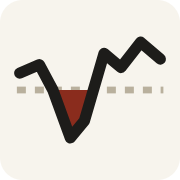
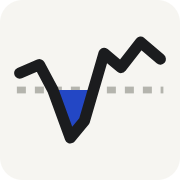
Switch to cobalt accent and sans body type; add talk link and A-Level result
- Replace the oxblood/terracotta accent and cream background with cobalt
  (#2347c5 light, #86a8ff dark) on cool neutrals; links are ink with a
  cobalt underline. All text pairs meet WCAG AA, most AAA.
- Newsreader now carries only the editorial layer (name, headings,
  titles, opening line, research questions); IBM Plex Sans sets body
  copy, metadata, and interface text.
- Regenerate og.png and PNG favicons in the new palette.
- Link the SUMR symposium presentation; add "Top in Nepal in Economics,
  GCE A Levels" under Before Georgia State.

Changed region(s): [[0.3056, 0.5, 0.5, 0.7222]]

diff --git a/src/index.css b/src/index.css
@@ -1,27 +1,29 @@
 /* ------------------------------------------------------------------
    Design system
-   Two faces: Newsreader (text and display, with optical sizes) and
-   IBM Plex Sans (labels, dates, navigation — anything tabular).
-   One accent, oxblood, for links and for the months the yield curve
-   was inverted. Spacing on a 4px base. The page is a margin column and
+   Two faces with separate jobs. Newsreader, a serif with optical sizes,
+   is the editorial voice: the name, headings, titles, the opening line,
+   the research questions. IBM Plex Sans carries everything you read or
+   scan: body copy, metadata, dates, navigation.
+   One accent, cobalt, for links, active states, and the months the
+   yield curve was inverted. Neutrals are cool-leaning, not cream. Spacing on a 4px base. The page is a margin column and
    a text column, plus a note column on wide screens, like a book with
    side notes.
 ------------------------------------------------------------------- */
 
 :root {
-  --paper: #f7f4ed;
-  --paper-sunk: #efeadf;
-  --ink: #1d1c1a;
-  --ink-2: #47443d;
-  --ink-3: #6b665c;
-  --rule: #d9d2c3;
-  --rule-strong: #b9b09d;
-  --accent: #8a2c1d;
-  --accent-hover: #5e1c12;
-  --accent-wash: rgba(138, 44, 29, 0.1);
-  --figure-line: #1d1c1a;
-  --figure-shade: #e6dfcf;
-  --scrim: rgba(29, 28, 26, 0.28);
+  --paper: #f6f5f1;
+  --paper-sunk: #edece7;
+  --ink: #1b1c1e;
+  --ink-2: #46484c;
+  --ink-3: #66686d;
+  --rule: #dcdbd5;
+  --rule-strong: #b4b4ad;
+  --accent: #2347c5;
+  --accent-hover: #17318f;
+  --accent-wash: rgba(35, 71, 197, 0.08);
+  --figure-line: #1b1c1e;
+  --figure-shade: #e6e5df;
+  --scrim: rgba(27, 28, 30, 0.3);
 
   --serif: 'Newsreader', 'Iowan Old Style', 'Palatino Linotype', Palatino, Georgia, serif;
   --sans: 'IBM Plex Sans', 'Segoe UI', system-ui, -apple-system, sans-serif;
@@ -49,37 +51,37 @@
 }
 
 :root[data-theme='dark'] {
-  --paper: #161513;
-  --paper-sunk: #1f1d1a;
-  --ink: #ebe5d8;
-  --ink-2: #c3bcad;
-  --ink-3: #9a9384;
-  --rule: #34312b;
-  --rule-strong: #57513f;
-  --accent: #e39a7e;
-  --accent-hover: #f3bda7;
-  --accent-wash: rgba(227, 154, 126, 0.14);
-  --figure-line: #ebe5d8;
-  --figure-shade: #2a2722;
-  --scrim: rgba(0, 0, 0, 0.5);
+  --paper: #121314;
+  --paper-sunk: #1a1b1d;
+  --ink: #e8e8e4;
+  --ink-2: #b9bab5;
+  --ink-3: #8f918c;
+  --rule: #2c2e31;
+  --rule-strong: #4a4d52;
+  --accent: #86a8ff;
+  --accent-hover: #b3c8ff;
+  --accent-wash: rgba(134, 168, 255, 0.12);
+  --figure-line: #e8e8e4;
+  --figure-shade: #232529;
+  --scrim: rgba(0, 0, 0, 0.55);
   color-scheme: dark;
 }
 
 @media (prefers-color-scheme: dark) {
   :root:not([data-theme='light']) {
-    --paper: #161513;
-    --paper-sunk: #1f1d1a;
-    --ink: #ebe5d8;
-    --ink-2: #c3bcad;
-    --ink-3: #9a9384;
-    --rule: #34312b;
-    --rule-strong: #57513f;
-    --accent: #e39a7e;
-    --accent-hover: #f3bda7;
-    --accent-wash: rgba(227, 154, 126, 0.14);
-    --figure-line: #ebe5d8;
-    --figure-shade: #2a2722;
-    --scrim: rgba(0, 0, 0, 0.5);
+    --paper: #121314;
+    --paper-sunk: #1a1b1d;
+    --ink: #e8e8e4;
+    --ink-2: #b9bab5;
+    --ink-3: #8f918c;
+    --rule: #2c2e31;
+    --rule-strong: #4a4d52;
+    --accent: #86a8ff;
+    --accent-hover: #b3c8ff;
+    --accent-wash: rgba(134, 168, 255, 0.12);
+    --figure-line: #e8e8e4;
+    --figure-shade: #232529;
+    --scrim: rgba(0, 0, 0, 0.55);
     color-scheme: dark;
   }
 }
@@ -108,9 +110,9 @@ body {
   margin: 0;
   background: var(--paper);
   color: var(--ink);
-  font-family: var(--serif);
-  font-size: 1.125rem;
-  line-height: 1.6;
+  font-family: var(--sans);
+  font-size: 1.0625rem;
+  line-height: 1.62;
   font-optical-sizing: auto;
   font-kerning: normal;
   -webkit-font-smoothing: antialiased;
@@ -148,6 +150,7 @@ h1,
 h2,
 h3,
 h4 {
+  font-family: var(--serif);
   font-weight: 500;
   line-height: 1.2;
   text-wrap: balance;
@@ -182,17 +185,19 @@ abbr[title] {
 
 /* ---------- links ---------- */
 
+/* Links are ink with a cobalt underline; the text turns cobalt on hover.
+   Saturated blue text everywhere would read as the browser default. */
 a {
-  color: var(--accent);
+  color: var(--ink);
   text-decoration-line: underline;
   text-decoration-thickness: 1px;
-  text-decoration-color: color-mix(in srgb, var(--accent) 38%, transparent);
+  text-decoration-color: color-mix(in srgb, var(--accent) 55%, transparent);
   text-underline-offset: 0.2em;
   transition: color var(--fast), text-decoration-color var(--fast), text-underline-offset var(--fast);
 }
 
 a:hover {
-  color: var(--accent-hover);
+  color: var(--accent);
   text-decoration-color: currentColor;
   text-underline-offset: 0.14em;
 }
@@ -599,6 +604,7 @@ kbd {
 
 .h-inv {
   fill: var(--accent);
+  fill-opacity: 0.88;
 }
 
 .h-line {
@@ -1644,8 +1650,8 @@ kbd {
 
 .palette-input {
   font: inherit;
-  font-family: var(--serif);
-  font-size: 1.1875rem;
+  font-family: var(--sans);
+  font-size: 1.0625rem;
   color: var(--ink);
   background: transparent;
   border: 0;
@@ -1656,7 +1662,6 @@ kbd {
 
 .palette-input::placeholder {
   color: var(--ink-3);
-  font-style: italic;
 }
 
 .palette-list {
@@ -1832,6 +1837,7 @@ kbd {
 }
 
 .tools-cv {
+  color: var(--accent);
   font-family: var(--sans);
   font-size: 0.875rem;
   font-weight: 500;
@@ -2021,6 +2027,105 @@ a.quiet:hover {
 
 .section-body.wide > .big-email {
   max-width: none;
+}
+
+/* ---------- type roles ----------
+   Serif: the editorial layer (name, headings, titles, the opening line,
+   research questions, captions, the email). Sans: everything else.
+   Plex has a larger x-height than Newsreader, so sans sizes sit a step
+   below where the serif was. */
+
+.intro .lede:first-child,
+.questions li,
+.study .question,
+.big-email,
+.portrait figcaption,
+.ledger h4,
+.project h4,
+.degree h3,
+.org-title,
+.essay h2 {
+  font-family: var(--serif);
+}
+
+.intro .lede + .lede {
+  font-size: 1.0625rem;
+  line-height: 1.7;
+}
+
+.study .question {
+  font-size: 1.1875rem;
+  line-height: 1.5;
+  color: var(--ink-2);
+}
+
+.study.is-lead .question {
+  font-size: 1.3125rem;
+  line-height: 1.45;
+  color: var(--ink);
+}
+
+.section-intro,
+.contact-lede,
+.essay p:not(.meta),
+.page-head h1 + p,
+.nf-body {
+  font-size: 1rem;
+  line-height: 1.65;
+}
+
+.facts,
+.ledger .body,
+.ledger.compact p,
+.project p,
+.course-table li,
+.honors li,
+.honors-line,
+.skills,
+.plain-list li,
+.study.is-minor p:not(.meta) {
+  font-size: 0.9375rem;
+  line-height: 1.6;
+}
+
+.facts dd {
+  color: var(--ink);
+}
+
+.note {
+  font-size: 0.875rem;
+}
+
+.contact-list {
+  font-size: 1rem;
+}
+
+.figure figcaption {
+  font-size: 0.8125rem;
+}
+
+/* Titles in the serif get slightly tighter tracking as they grow. */
+.study h3,
+.degree h3,
+.org-title,
+.desk-head h2,
+.section-head h2 {
+  letter-spacing: -0.012em;
+}
+
+/* Accent as a rule, not a fill: the active nav item and the lead entries. */
+.study.is-lead {
+  border-top-color: var(--rule);
+}
+
+.study.is-lead .study-meta .tnum::before {
+  content: '';
+  display: inline-block;
+  width: 1.25rem;
+  height: 2px;
+  margin-right: 0.45rem;
+  vertical-align: 0.28em;
+  background: var(--accent);
 }
 
 /* ---------- print: the home page doubles as a one-page summary ---------- */

diff --git a/index.html b/index.html
@@ -14,8 +14,8 @@
     <link rel="icon" href="/favicon.svg" type="image/svg+xml" />
     <link rel="icon" href="/favicon-32.png" sizes="32x32" type="image/png" />
     <link rel="apple-touch-icon" href="/apple-touch-icon.png" />
-    <meta name="theme-color" content="#f7f4ed" media="(prefers-color-scheme: light)" />
-    <meta name="theme-color" content="#161513" media="(prefers-color-scheme: dark)" />
+    <meta name="theme-color" content="#f6f5f1" media="(prefers-color-scheme: light)" />
+    <meta name="theme-color" content="#121314" media="(prefers-color-scheme: dark)" />
 
     <meta property="og:type" content="website" />
     <meta property="og:site_name" content="Animesh Shrestha" />
@@ -56,7 +56,7 @@
     <link rel="preconnect" href="https://fonts.gstatic.com" crossorigin />
     <link
       rel="stylesheet"
-      href="https://fonts.googleapis.com/css2?family=Newsreader:ital,opsz,wght@0,6..72,300..600;1,6..72,300..500&family=IBM+Plex+Sans:wght@400;500;600&display=swap"
+      href="https://fonts.googleapis.com/css2?family=Newsreader:ital,opsz,wght@0,6..72,300..600;1,6..72,300..500&family=IBM+Plex+Sans:ital,wght@0,400;0,500;0,600;1,400&display=swap"
     />
   </head>
   <body>

diff --git a/src/content.js b/src/content.js
@@ -219,7 +219,7 @@ export const education = {
   ],
   earlier: {
     name: 'A Levels, Little Angels’ College, Nepal',
-    detail: 'Gold medal, Business Case Analysis round, Third Nepal Economic Olympiad (2022).',
+    detail: 'Top in Nepal in Economics, GCE A Levels. Gold medal, Business Case Analysis round, Third Nepal Economic Olympiad (2022).',
   },
 };
 
@@ -318,6 +318,7 @@ export const presentations = [
     title: 'Summer research presentation',
     venue: 'Penn LDI SUMR Research Symposium, Philadelphia',
     when: 'Summer 2026',
+    href: 'https://upenn.app.box.com/s/jfh7cvq5stz32bvbrf8fjuyi3mbepr5y',
   },
   {
     title: 'Nepalese Population in the United States: A Demographic and Socioeconomic Analysis',

diff --git a/src/components/Horizon.jsx b/src/components/Horizon.jsx
@@ -73,7 +73,7 @@ export default function Horizon({ compact = false }) {
         className="horizon-plot"
         tabIndex={0}
         role="img"
-        aria-label="The 10-year minus 3-month U.S. Treasury spread, monthly from 1962 to 2025. Periods when it falls below zero are filled in red; recessions are shaded. Arrow keys step through months."
+        aria-label="The 10-year minus 3-month U.S. Treasury spread, monthly from 1962 to 2025. Periods when it falls below zero are filled in blue; recessions are shaded. Arrow keys step through months."
         onPointerMove={(e) => pick(e.clientX)}
         onPointerDown={(e) => pick(e.clientX)}
         onPointerLeave={(e) => e.pointerType === 'mouse' && setI(null)}

diff --git a/src/components/Footer.jsx b/src/components/Footer.jsx
@@ -14,7 +14,7 @@ export default function Footer({ openPalette }) {
         <div>
           <p>
             The line under my name is the gap between 10-year and 3-month U.S. Treasury yields, month by month from
-            1962 to 2025, using the FRED series from my <Link to={{ pathname: '/', hash: '#yield-curve' }}>recession-nowcasting memo</Link>. Red marks the months it
+            1962 to 2025, using the FRED series from my <Link to={{ pathname: '/', hash: '#yield-curve' }}>recession-nowcasting memo</Link>. Blue marks the months it
             was inverted; shading marks NBER recessions.
           </p>
           <p>

diff --git a/src/components/Home.jsx b/src/components/Home.jsx
@@ -253,7 +253,7 @@ function Study({ s, index }) {
             <SpreadChart />
             <figcaption>
               <b>Figure.</b> 10-year minus 3-month Treasury spread, monthly, 1962–2025, percentage points. Shaded:
-              NBER recessions. Red: inversions. This is also the line drawn under my name at the top of the page.
+              NBER recessions. Blue: inversions. This is also the line drawn under my name at the top of the page.
               Data: FRED (GS10, TB3MS, USREC).
             </figcaption>
           </figure>

diff --git a/src/main.jsx b/src/main.jsx
@@ -11,6 +11,6 @@ ReactDOM.createRoot(document.getElementById('root')).render(
 
 console.log(
   '%cHello, reader of source.%c\nThe line under my name is the 10y–3m Treasury spread since 1962.\nCode: https://github.com/Animeshav14/animesh.website · Ctrl/⌘+K for the command menu.',
-  'font: italic 16px Newsreader, Georgia, serif; color: #8a2c1d',
-  'font: 12px "IBM Plex Sans", sans-serif; color: #6b665c',
+  'font: italic 16px Newsreader, Georgia, serif; color: #2347c5',
+  'font: 12px "IBM Plex Sans", sans-serif; color: #66686d',
 )

diff --git a/README.md b/README.md
@@ -37,7 +37,7 @@ There are no animation or UI libraries. The interactive parts are the charts, th
 
 ## The line under my name
 
-The line across the top of the home page is the 10-year minus 3-month Treasury spread, monthly from 1962 to 2025. Months where it was negative are filled red. NBER recessions are shaded. The data are FRED series (GS10, TB3MS, USREC) from my [recession-nowcasting](https://github.com/Animeshav14/recession-nowcasting) project, converted to a small array in `src/data/yieldSpread.js`.
+The line across the top of the home page is the 10-year minus 3-month Treasury spread, monthly from 1962 to 2025. Months where it was negative are filled in the accent blue. NBER recessions are shaded. The data are FRED series (GS10, TB3MS, USREC) from my [recession-nowcasting](https://github.com/Animeshav14/recession-nowcasting) project, converted to a small array in `src/data/yieldSpread.js`.
 
 `Horizon.jsx` draws it as one SVG path, stretched to the window width with `preserveAspectRatio="none"` and a non-scaling stroke, so it stays a hairline at any size. Hovering, dragging on a phone, or focusing it and using the arrow keys shows the month and value. The same data drives the chart in the research section (`SpreadChart.jsx`) and the link-preview image, `public/og.png`. The favicon is a hand-drawn sketch of it.
 
